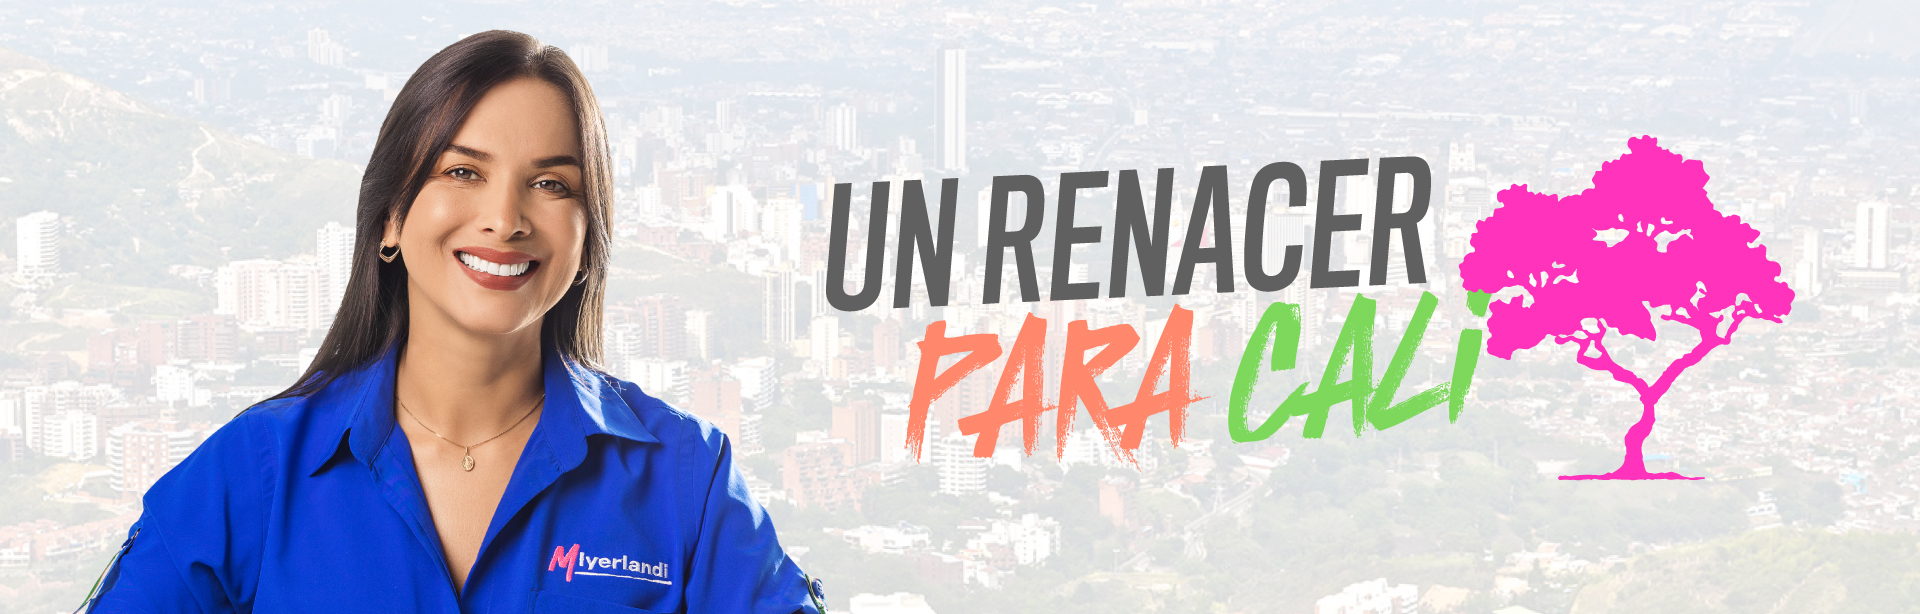
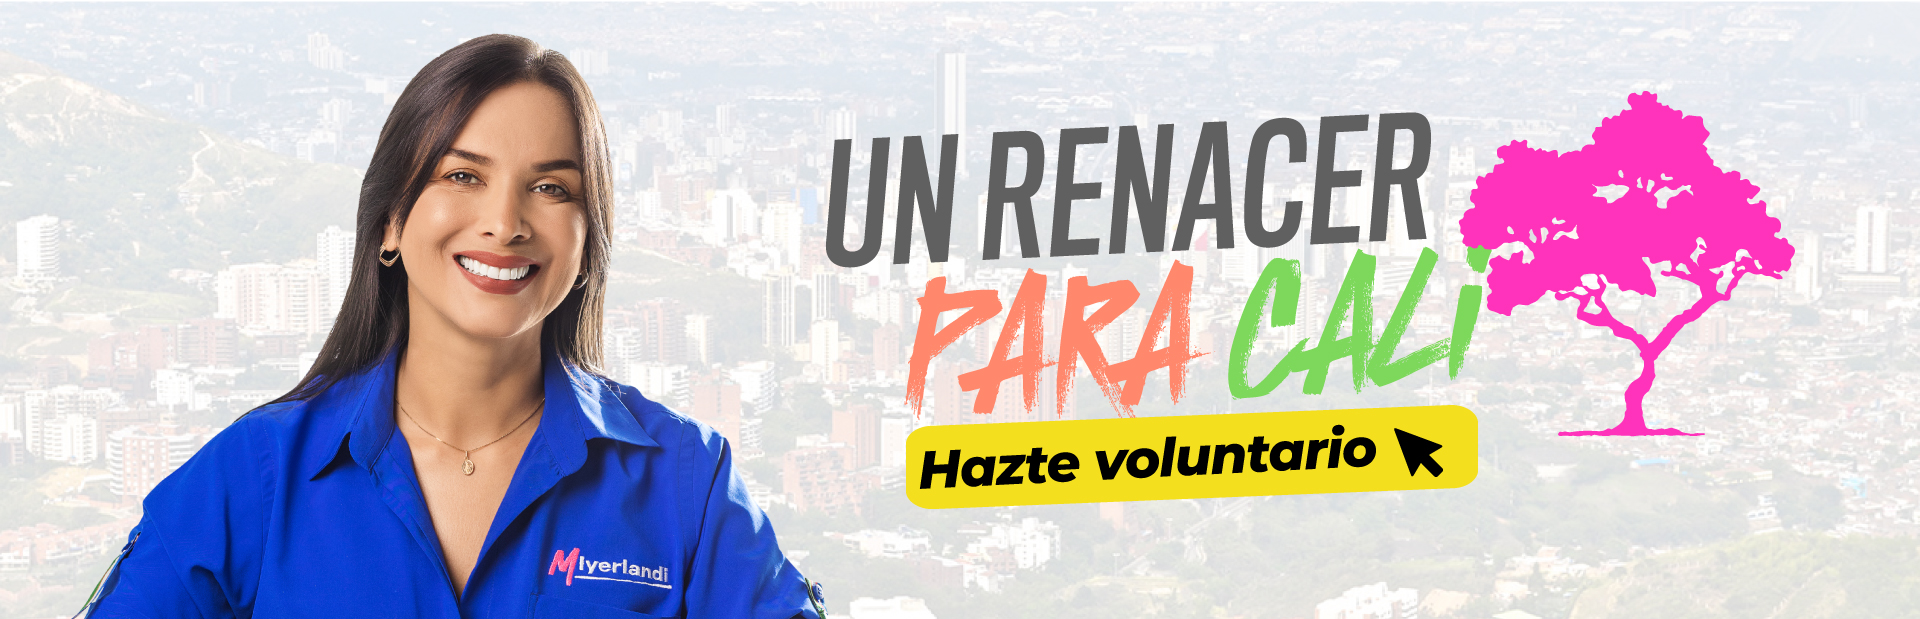
Landing page adjusted toi the changes requested in the design v2.0.

diff --git a/CSS/style.css b/CSS/style.css
@@ -46,11 +46,11 @@ main section {
 	background-color: var(--white);
 	color: var(--black)
 }
-#KnowMe, #FormDescription, #Video, #FormRegistry {
+#KnowMe, #FormDescription, #Video, #Carrousel {
 	margin: 2rem 0;
 	max-width: 47%;
 }
-#Video, #FormRegistry{
+#Video, #Carrousel{
 	display: flex;
 	justify-content: center;
 	align-items: center;
@@ -90,69 +90,45 @@ main section {
 	padding-top: 16px;
 }
 
-#FormRegistry{
-	background-color: var(--yellow);
+#Carrousel{
+	background-color: var(--black);
 	width: 100%;
-	padding: 24px;
-	border-radius: 30px;
+	height: 60vh;
+	position: relative;
+	overflow: hidden;
 }
 
-#FormRegistry form{
-	display: flex;
-	flex-direction: row;
-	flex-wrap: wrap;
-	justify-content: space-between;
-	
-}
-#FormRegistry .form-group{
-	display: flex;
-	flex-direction: column;
-	width: 47%;
-	margin-bottom: 24px;
-}
-
-#FormRegistry label,#FormRegistry input{
-	font-family: "TitlingGothic";
-}
-
-#FormRegistry input{
-	border: none;
-	border-radius: 17px;
-	height: 35px;
+#Carrousel #image{
 	width: 100%;
-	color: hsla(0, 0%, 9%, 0.6);
-	padding: 0 1rem;
+    height: 100%;
+    background-size: cover;
+}
+#next, #back{
+	color: var(--white);
+	opacity: 0.6;
+	font-size: 64px;
+	position: absolute;
+	transition: opacity .2s;
+	transition-timing-function: ease-out;
+	-webkit-touch-callout: none;
+	-webkit-user-select: none;
+	-khtml-user-select: none;
+	-moz-user-select: none;
+	-ms-user-select: none;
+	user-select: none;
+}
+#next:hover, #back:hover{
+	opacity: 1;
+	cursor: pointer;
 }
 
-#FormRegistry input:focus, #FormRegistry input:active{
-	border: aqua;
-	outline: none;
+#next{
+	right: 20px;
+}
+#back{
+	left: 20px;
 }
 
-
-#FormRegistry label{
-	font-size: 16px;
-	font-weight: Normal;
-	margin-bottom: 12px;
-}
-
-#FormRegistry p{
-	font-family: Arial;
-	font-size: 12px;
-	line-height: 16px;
-}
-
-#FormRegistry input[type=checkbox]{
-	height: 20px;
-	border-radius: 50%;
-}
-
-#FormRegistry .checkContainer{
-	display: flex;
-	flex-direction: row;
-	font-family: "TitlingGothic";
-	font-size: 14px;
-}
 
 #FormDescription{
 	font-family: "TitlingGothic";
@@ -206,7 +182,7 @@ footer #SocialNetwork .social{
 		justify-content: space-between;
 		align-items: center;
 	}
-	#KnowMe, #FormDescription, #Video, #FormRegistry {
+	#KnowMe, #FormDescription, #Video, #Carrousel {
 		margin: 2rem 0;
 		max-width: 100%;
 	}

diff --git a/JS/carrouselImage.js b/JS/carrouselImage.js
@@ -1,0 +1,54 @@
+
+
+window.onload = function () {
+    // Variables
+    var images = ['Assets/Carrousel/1.jpg',
+                  'Assets/Carrousel/2.jpg',
+                  'Assets/Carrousel/3.jpg',
+                  'Assets/Carrousel/4.jpg',
+                  'Assets/Carrousel/5.jpg',
+                ];
+    let cont = 0;
+    let back = document.getElementById('back');
+    let next = document.getElementById('next');
+    let image = document.getElementById('image');
+
+    // Funciones
+
+    /**
+     * Funcion que cambia la foto en la siguiente posicion
+     */
+    function pasarFoto() {
+        if(cont >= images.length - 1) {
+            cont = 0;
+        } else {
+            cont++;
+        }
+        renderizarImagen();
+    }
+
+    /**
+     * Funcion que cambia la foto en la anterior posicion
+     */
+    function retrocederFoto() {
+        if(cont <= 0) {
+            cont = images.length - 1;
+        } else {
+            cont--;
+        }
+        renderizarImagen();
+    }
+
+    /**
+     * Funcion que actualiza la imagen de imagen dependiendo de cont
+     */
+    function renderizarImagen () {
+        image.style.backgroundImage = `url(${images[cont]})`;
+    }
+
+    // Eventos
+    next.addEventListener('click', pasarFoto);
+    back.addEventListener('click', retrocederFoto);
+    // Iniciar
+    renderizarImagen();
+}

diff --git a/index.php b/index.php
@@ -21,7 +21,7 @@
 			</div>
 		</header>
 		<main>
-			<div id="Banner">
+			<div id="Banner" onclick="redirectForm()">
 				<img
 					src="Assets/MiyerlandiBrand/BannerMiyerlandi.jpg"
 					alt="Banner web de Miyerlandi" />
@@ -40,39 +40,20 @@
 				</div>
 			</section>
 			<section>
-				<div id="FormRegistry">
-					<form action="#" method="post">
-						<div class="form-group">
-							<label for="nameInput">Nombre</label>
-							<input type="text" id="nameInput">
-						</div>
-						<div class="form-group">
-							<label for="lastNameInput">Apellido</label>
-							<input type="text" id="lastNameInput">
-						</div>
-						<div class="form-group">
-							<label for="emailInput">Correo electrónico</label>
-							<input type="email" id="emailInput">
-						</div>
-						<div class="form-group">
-							<label for="phoneInput">Número de teléfono</label>
-							<input type="number" id="phoneInput">
-						</div>
-							<p>*En cumplimiento de Ia Ley 1581 de 2012, que desarrolla el derecho de habeas data,
-							solicitamos su autorizacion para que el Movimiento Un Renacer Para Cali, que avala la
-							Candidatura de Miyerlandi a la alcaldia de Santiago de Cali, en calidad de responsable del
-							tratamiento pueda recopilar, almacenar, archivar, copiar, analizar los datos diligenciados:</p>
-							<div class="checkContainer">
-								<input type="checkbox" id="acceptCheck" value="acceptCheck"><span>Acepto</span>
-							</div>
-							
+				<div id="Carrousel">
+					<div id="back" ><b><</b></div>
+					<div id="next" ><b>></b></div>
+					<div id="image"></div>
 				</div>
 				<div id="FormDescription">
-					<h3>Inscripción de Voluntarios</h3>
-					<h4>Construyamos juntos <b>#UnRenacerParaCali</b></h4>
-					<p>Bienvenido/a, estamos felices de que quieras hacer parte del grupo de ciudadanos voluntarios que acompañarán a Miyerlandi en su camino a la alcaldía.</p>
-					<p><b>Por favor ingresa tus datos de contacto <br>
-					y pronto nos  comunicaremos contigo.</b></p>
+					
+					
+				<p><b>Es el sueño de un grupo de ciudadanos que trabajamos todos los días por construir, de manera participativa e incluyente, una mejor ciudad.</b></p>
+				<br>
+				<p>Tenemos como objetivo la consolidación de un proyecto de ciudad segura, cívica, sostenible e innovadora, en la que propios y visitantes podamos disfrutar de la oferta deportiva, gastronómica, cultural y ambiental que ofrece nuestra Sucursal del Cielo en sus zonas urbana y rural. Creemos que todos estos sueños son posibles si Miyerlandi, una mujer de resultados, berraca y trabajadora es elegida Alcaldesa de Santiago de Cali.
+				</p>
+				<br>
+				<h4>Construyamos juntos <b>#UnRenacerParaCali</b></h4>
 				</div>
 			</section>
 		</main>
@@ -100,5 +81,12 @@
 				</a>
 			</div>
 		</footer>
+
+		<script src="JS/carrouselImage.js"></script>
+		<script>
+			function redirectForm(){
+				location.href = "volunteerSignUp.php";
+			}
+		</script>
 	</body>
 </html>

diff --git a/volunteerSignUp.php b/volunteerSignUp.php
@@ -1,0 +1,58 @@
+<!DOCTYPE html>
+<html lang="en">
+<head>
+    <meta charset="UTF-8">
+    <meta http-equiv="X-UA-Compatible" content="IE=edge">
+    <meta name="viewport" content="width=device-width, initial-scale=1.0">
+    <title>Inscripción de voluntarios || Miyerlandi</title>
+    <!-- Estilos de la pagina -->
+    <link rel="stylesheet" href="CSS/style.css" />
+    <link rel="stylesheet" href="CSS/Fonts.css" />
+
+    <!-- JS de la pagina -->
+    <script src="https://cdnjs.cloudflare.com/ajax/libs/jquery/3.6.3/jquery.min.js"></script>
+</head>
+<body>
+    <header>
+        <div id="HeaderLogo">
+            <img
+                src="Assets/MiyerlandiBrand/LogotypeColor.svg"
+                alt="Logotipo de Miyerlandi" />
+        </div>
+    </header>
+    <main>
+        
+    </main>
+    <footer>
+        <div id="Copyright">
+            <p>
+                Diseñado por: Equipo de mercado Miyerlandi - Desarrollado por: Proveedor - COPYRIGHT &copy; 2023
+            </p>
+        </div>
+        <div id="SocialNetwork">
+            <a href="https://www.facebook.com/MiyerTorresA" class="social" target="_blank">
+                <img
+                    src="Assets/SocialNetwork/FacebookLogoWhite.svg"
+                    alt="Facebook de Miyerlandi" />
+            </a>
+            <a href="https://twitter.com/MiyerTorresA" class="social" target="_blank">
+                <img
+                    src="Assets/SocialNetwork/TwitterLogoWhite.svg"
+                    alt="Twitter de Miyerlandi" />
+            </a>
+            <a href="https://www.instagram.com/miyertorresa/" class="social" target="_blank">
+                <img
+                    src="Assets/SocialNetwork/InstagramLogoWhite.svg"
+                    alt="Instagram de Miyerlandi" />
+            </a>
+        </div>
+    </footer>
+
+    <script src="JS/carrouselImage.js"></script>
+    <script>
+        function redirectForm(){
+            location.href = "volunteerSignUp.php";
+        }
+    </script>
+</body>
+</html>
